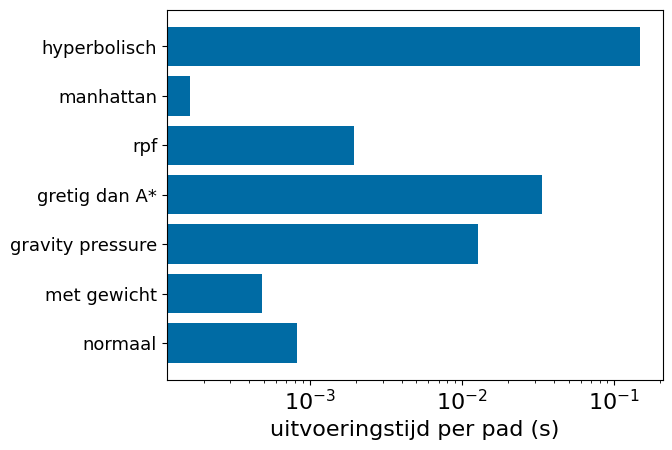
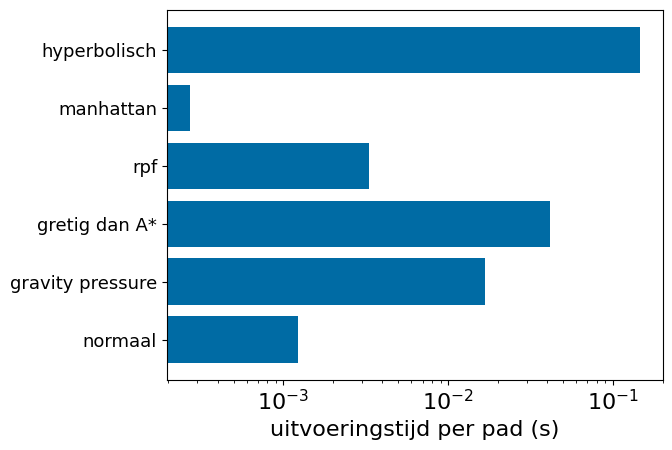
Just before node2vec

diff --git a/generate_data_greedy.py b/generate_data_greedy.py
@@ -233,7 +233,7 @@ def data_generator(name, functions, foldername, number_of_routes_pre_compute=80,
 
   plt.barh(foldernames, timing_array)
   x = np.arange(len(foldernames))
-  plt.yticks(x, ['normaal', 'met gewicht', 'gravity pressure', 'gretig dan A*', 'rpf', 'manhattan','hyperbolisch'], fontsize='13', rotation=0)
+  plt.yticks(x, ['normaal', 'gravity pressure', 'gretig dan A*', 'rpf', 'manhattan','hyperbolisch'], fontsize='13', rotation=0)
   #plt.title(f'{name} execution time per succesful path')
   plt.xlabel('uitvoeringstijd per pad (s)')
   plt.xscale('log')
@@ -248,12 +248,12 @@ name_list = ['New Dehli','Nairobi', 'Rio de Janeiro', 'Brugge', 'Manhattan']
 
 #name_list = ['Brugge']
 
-functions = [gf.greedy_forwarding, gfwe.greedy_forwarding_with_edge_weight, gp.gravity_pressure, gtas.greedy_forwarding_then_a_star, grpf.greedy_forwarding_rpf, gm.manhattan_greedy_forwarding, hr.hyperbolic_greedy_forwarding] #,hr.hyperbolic_greedy_forwarding gf.greedy_forwarding ,gfwe.greedy_forwarding_with_edge_weight, gtas.greedy_forwarding_then_a_star,  grpf.greedy_forwarding_rpf, gm.manhattan_greedy_forwarding,gp.gravity_pressure, gp.gravity_pressure]# a_star.A_star_priority_queue, 
+functions = [gf.greedy_forwarding, gp.gravity_pressure, gtas.greedy_forwarding_then_a_star, grpf.greedy_forwarding_rpf, gm.manhattan_greedy_forwarding, hr.hyperbolic_greedy_forwarding] #,hr.hyperbolic_greedy_forwarding gf.greedy_forwarding ,gfwe.greedy_forwarding_with_edge_weight, gtas.greedy_forwarding_then_a_star,  grpf.greedy_forwarding_rpf, gm.manhattan_greedy_forwarding,gp.gravity_pressure, gp.gravity_pressure]# a_star.A_star_priority_queue, 
 
 #functions = [hr.hyperbolic_greedy_forwarding]
 #functions = [a_star.A_star_priority_queue]
 
-foldernames = ['normal_greedy', 'greedy_with_edge_weight', 'gravity_pressure', 'greedy_then_a_star', 'greedy_rpf','greedy_manhattan','greedy_hyperbolic'] #, 'normal_greedy','greedy_with_edge_weight','greedy_then_a_star', 'greedy_rpf', 'greedy_manhattan', 'greedy_hyperbolic','gravity_pressure', 'greedy_hyperbolic']
+foldernames = ['normal_greedy', 'gravity_pressure', 'greedy_then_a_star', 'greedy_rpf','greedy_manhattan','greedy_hyperbolic'] #, 'normal_greedy','greedy_with_edge_weight','greedy_then_a_star', 'greedy_rpf', 'greedy_manhattan', 'greedy_hyperbolic','gravity_pressure', 'greedy_hyperbolic']
 #'pure_A_star'
 #foldernames = ['pure_A_star']
 #foldernames = ['greedy_hyperbolic']
